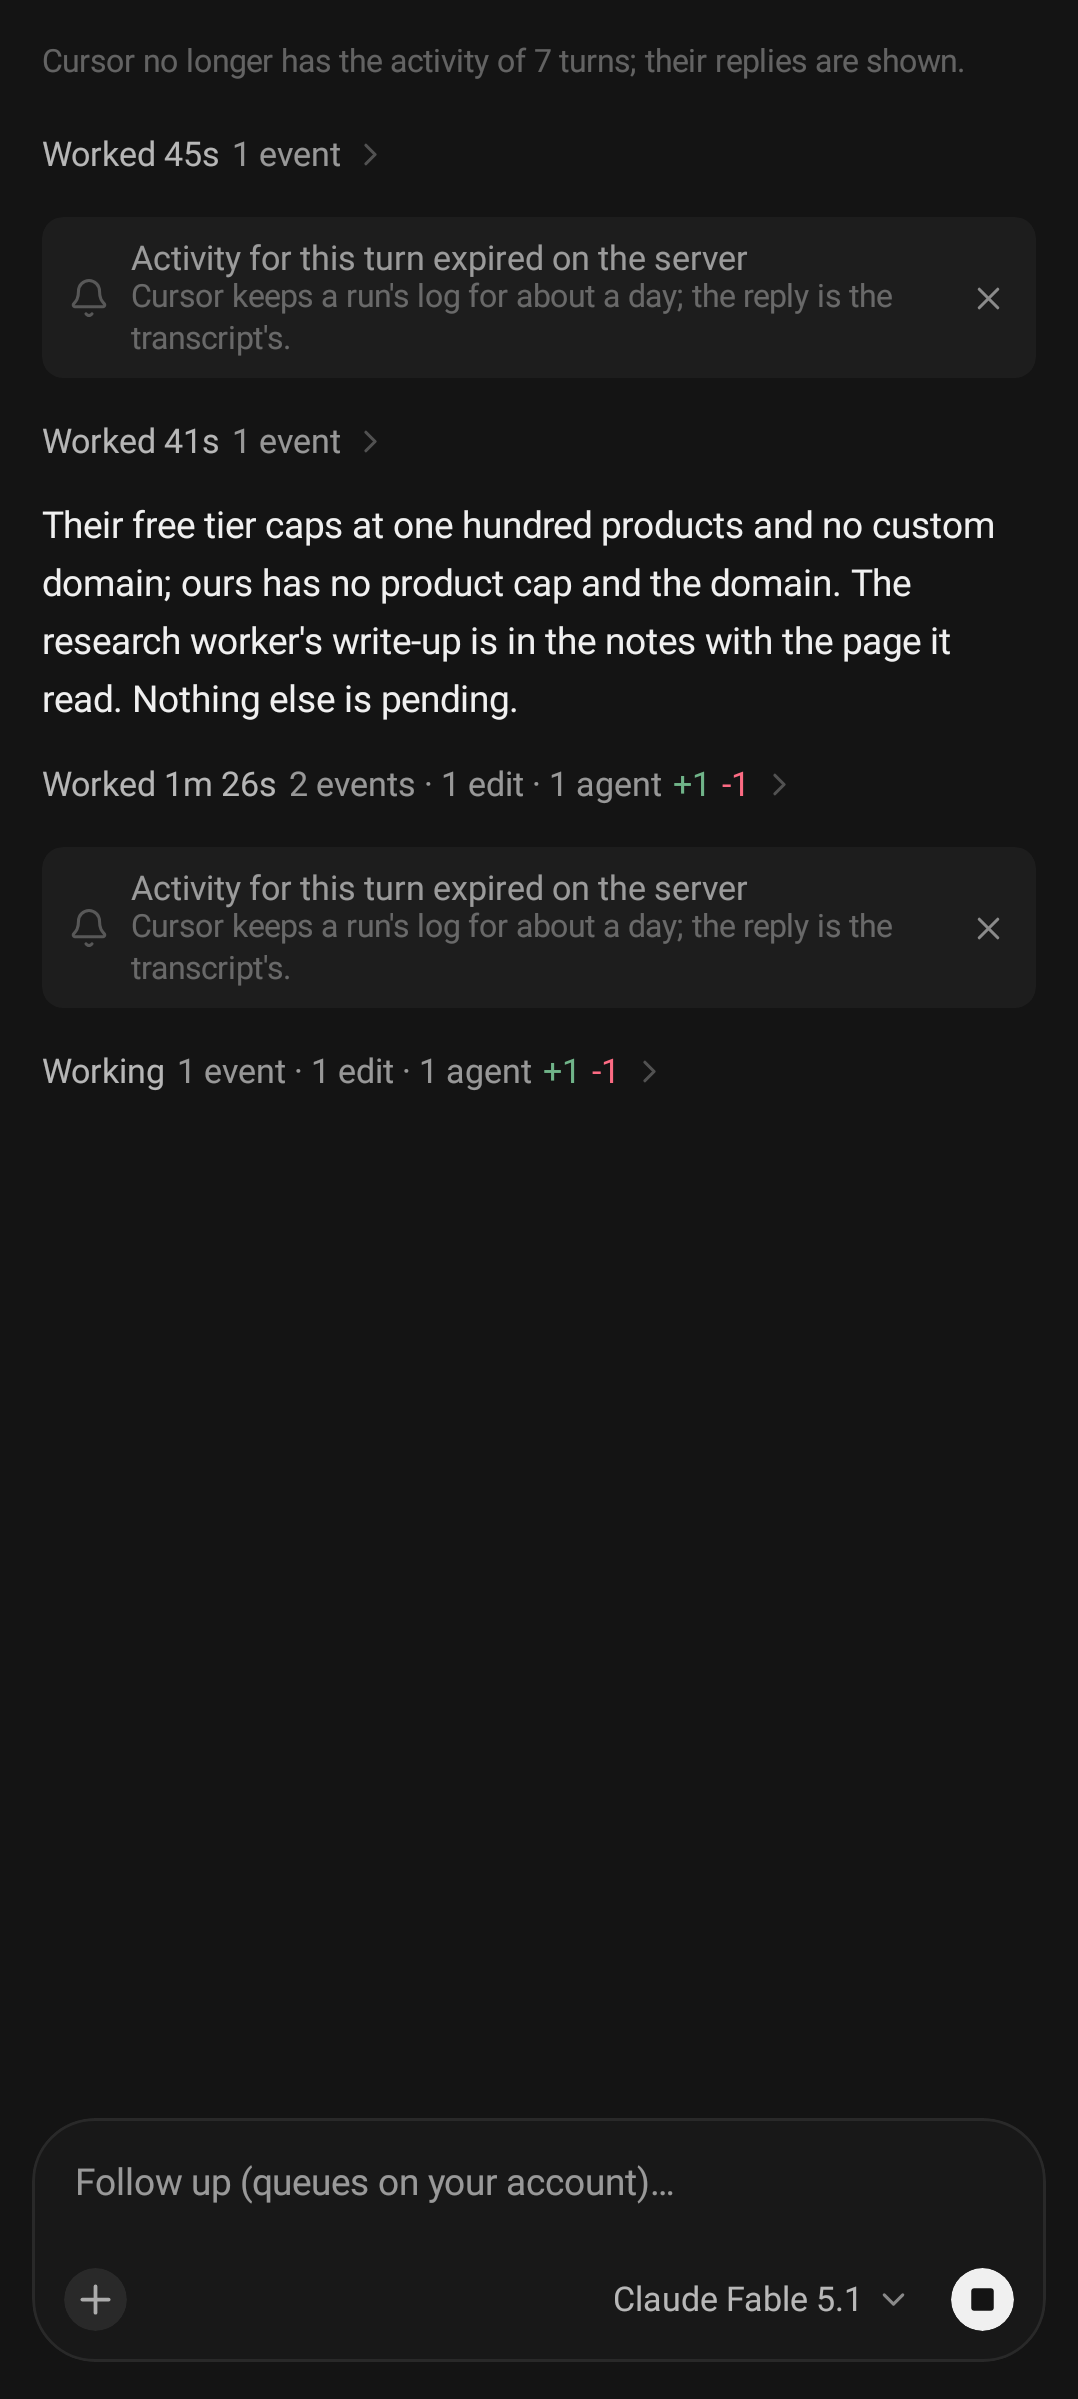
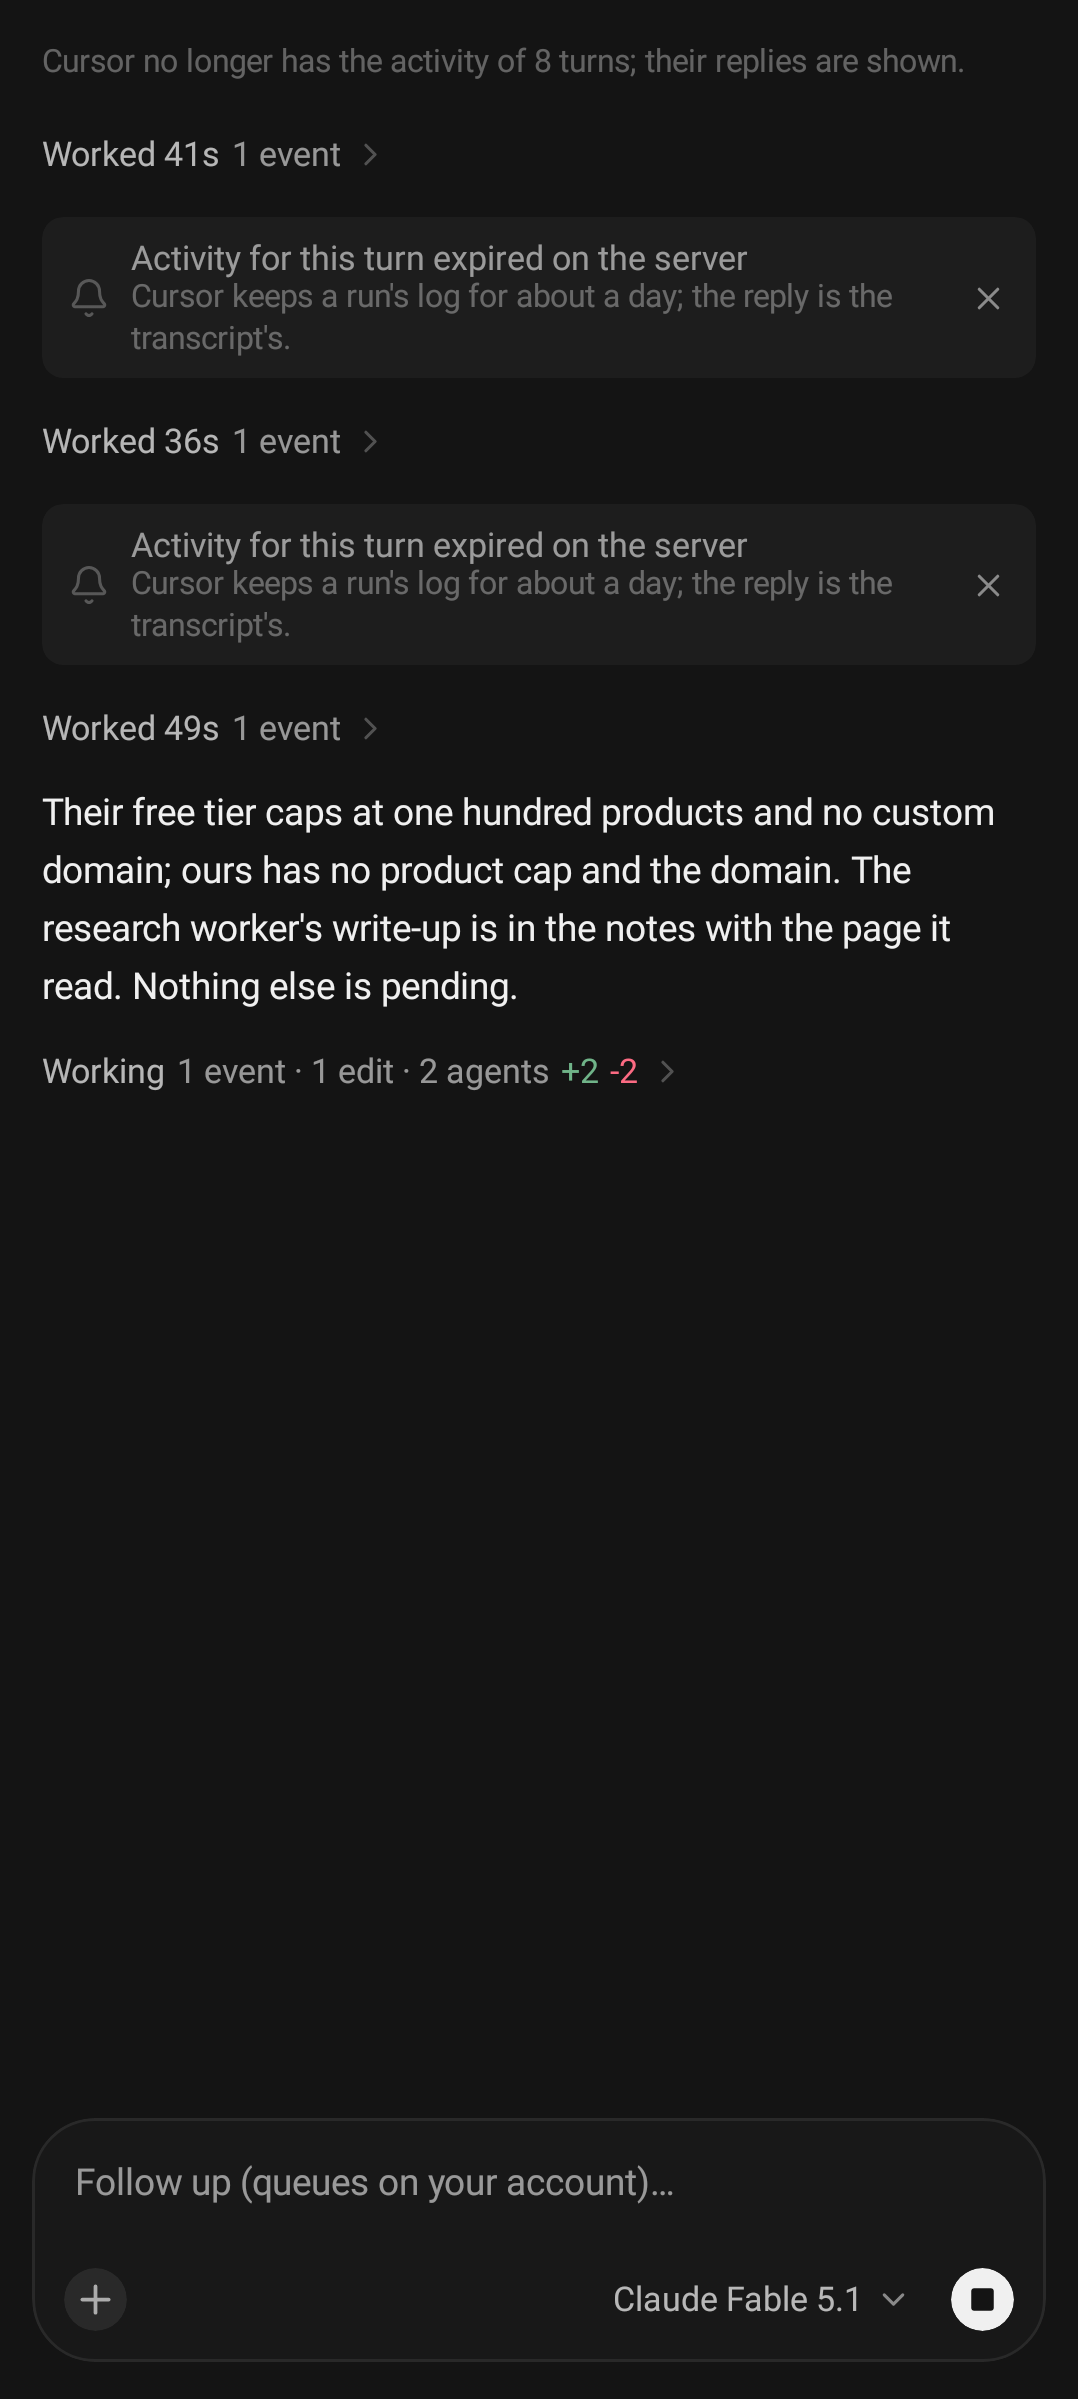
The Stable-project frame reads the same whatever order the replays land in: the window's older logs gone, the newest kept

Changed region(s): [[0.0306, 0.2159, 0.9184, 0.4318], [0.4898, 0.4318, 0.5816, 0.4627], [0.1531, 0.1542, 0.1837, 0.1851]]

diff --git a/app/src/test/java/com/cursorforandroid/screenshots/TranscriptEngineScreenshotTest.kt b/app/src/test/java/com/cursorforandroid/screenshots/TranscriptEngineScreenshotTest.kt
@@ -101,8 +101,9 @@ class TranscriptEngineScreenshotTest {
         // The record refused in the server's words, as on Bennett's phone — never met under Stable.
         server.outage(Route.RecordState, Fault.Status(404, "unimplemented", FaultServer.REMOVED_UNARY))
         server.outage(Route.Stream, Fault.StreamCut(events = live.log.size), path = "/${live.runId}/")
-        // The newest finished turn's log is gone: its row says so, calmly.
-        server.logs.remove(turns[turns.size - 2].runId)
+        // The logs of the window's older turns are gone (Cursor keeps a log about a day), the newest finished turn's
+        // still there: whichever order the replays land in, the same turns read as expired, so the frame is the same.
+        turns.dropLast(2).takeLast(8).forEach { server.logs.remove(it.runId) }
     }
 
     @After
